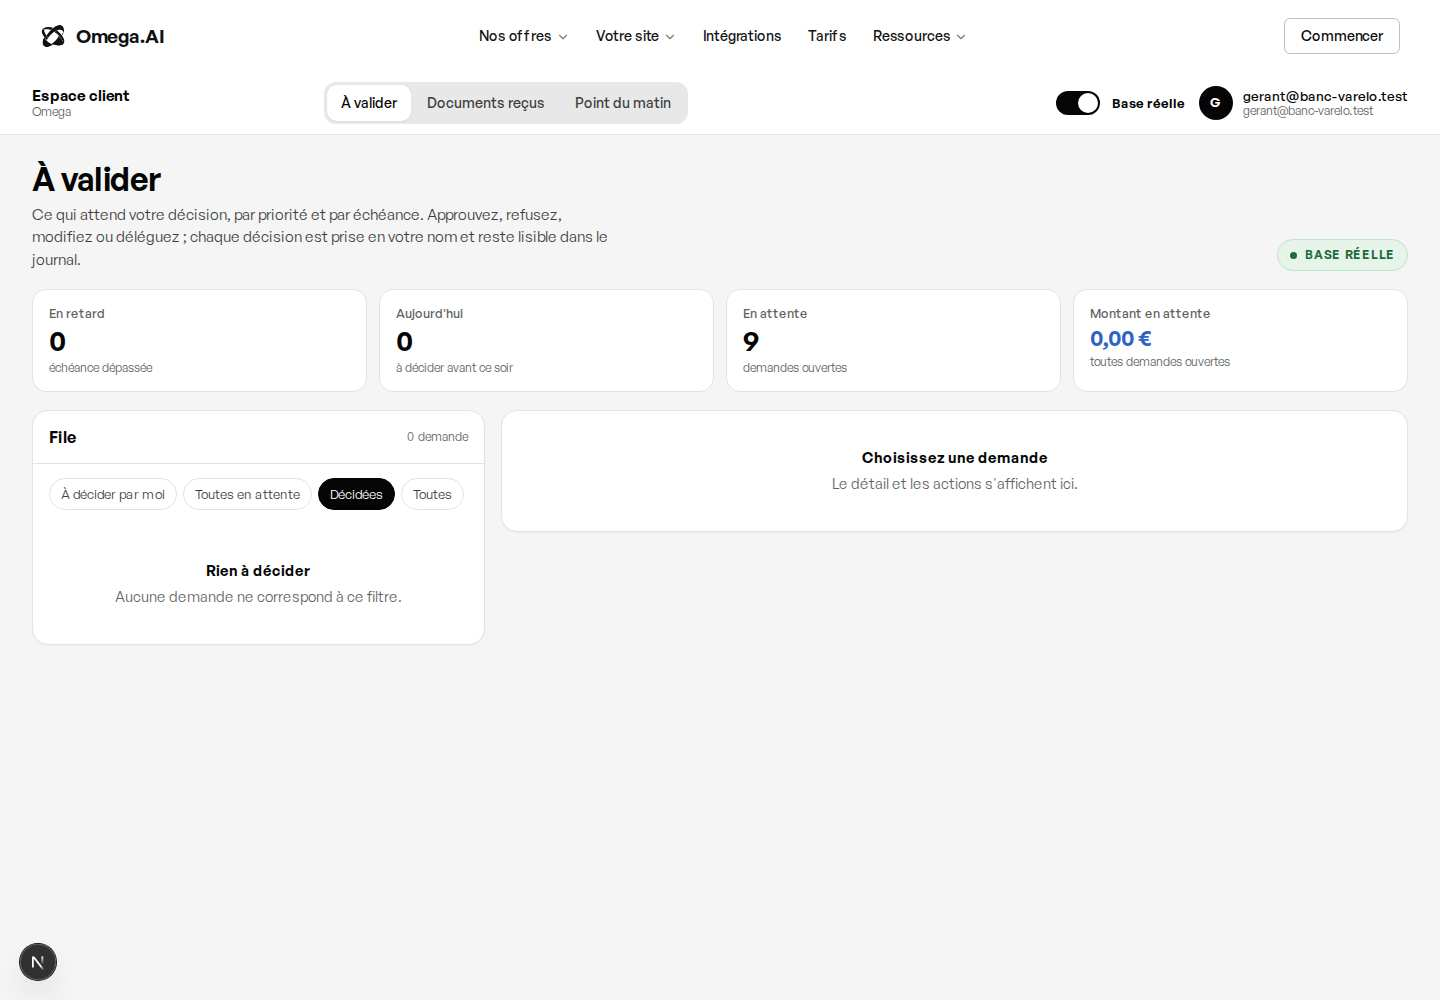
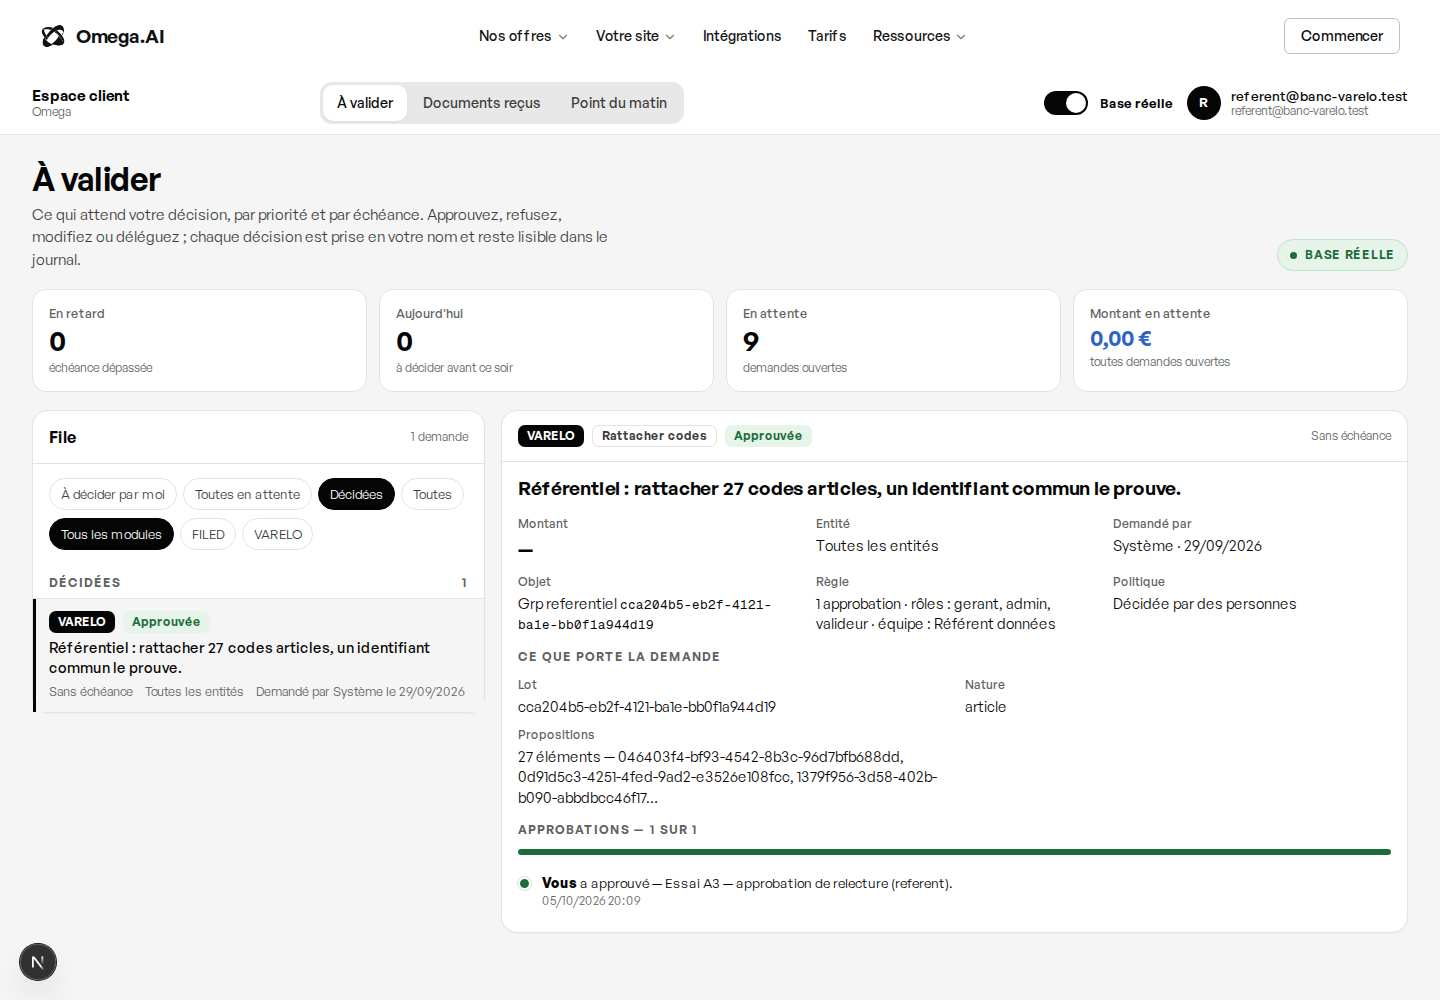
NOTES-A3 et captures : approuver / refuser rejoués avec referent, première vraie facture lue dans FILED, deux retours pour le lecteur (demandes 11 et 12)
Claude-Session: https://claude.ai/code/session_01DdgwRadkJFx5u9buwh5crS

diff --git a/omega/NOTES-A3.md b/omega/NOTES-A3.md
@@ -155,9 +155,24 @@ RLS, portes RPC). Sans session, l'interrupteur est gris et l'exemple reste.
    75 GRANT en face des policies. Délégation et révocation vérifiées.
    `comptes` DELETE, `entites` INSERT + DELETE, `regles_validation`
    INSERT + UPDATE + DELETE : voulus par le socle (policies `ALL`), pas
-   touchés. **Reste à demander** : un mot de passe pour `referent` (membre de
-   « Référent données ») ou `daf` pour rejouer approuver / refuser, et une
-   demande saisie par le gérant pour rejouer l'annulation.
+   touchés. Approuver / refuser rejoués avec `referent`. **Reste** : une
+   demande saisie par le gérant pour rejouer l'annulation (promise au
+   prochain point).
+11. **Vu sur la première vraie facture** (05/10, 20:05) — pour A1 / le
+   coordinateur, pas pour l'écran : le contrôle `identite.siren` dit
+   « Aucun SIREN sur la pièce ni sur le fournisseur » alors que
+   `pieces_valeurs` porte `fournisseur.siren = "SIREN 842 115 763"` (et
+   `fournisseur.tva`) — le contrôle ne lit pas la valeur lue, ou la valeur
+   n'est pas remontée sur `filed_factures.fournisseur_lu`. Et le contrôle
+   bloquant `fournisseur.a_confirmer` demande qu'« une personne confirme »
+   le fournisseur nouveau : **il n'y a pas de porte pour ça** —
+   `filed_bloquer_fournisseur(false)` débloque un bloqué, ce n'est pas
+   confirmer un `a_confirmer`. Proposition : `filed_confirmer_fournisseur
+   (p_fournisseur, p_motif)` (statut `actif`, `confirme_le`/`confirme_par`),
+   que j'ajoute à l'écran dès qu'elle existe.
+12. **Contrat des champs de lecture** : `omega/CHAMPS-LECTURE.md` n'est pas
+   sur `main` ; la visionneuse lit aujourd'hui les deux jeux de noms. Un
+   seul jeu, écrit, éviterait les repli.
 9. **Realtime** — posé en partie (socle_lot19h, 05/10 18:25) :
    `demandes_validation`, `approbations`, `filed_documents`, `filed_factures`
    sont dans la publication `supabase_realtime`. Les écrans écoutent déjà
@@ -218,10 +233,27 @@ sur la recette, cookie de session posé par
   et le dit AVANT le clic (règle « · équipe : Référent données », avis
   ambre, boutons gris ; « À décider par moi » vide à juste titre), une
   délégation d'un membre rouvrant la décision — même ordre que le trigger.
-  **Approuver / refuser restent à rejouer** avec un compte membre
-  (referent c2 pour « Référent données », daf/daf2 pour « Direction
-  financière ») : il leur faut un mot de passe. **Annuler sa demande**
-  demande une demande saisie par la personne : aucune sur le banc.
+  **Approuver et refuser rejoués à 20:09 UTC avec `referent`** (membre de
+  « Référent données », mot de passe posé par le coordinateur) : une
+  demande VARELO approuvée (passée `executee` par le trigger, l'action du
+  module a tourné), une refusée avec motif (`rejetee`) ; les deux lignes
+  d'`approbations` portent le commentaire. Le message « C'est fait » est
+  désormais dit au-dessus de la file, parce que la demande décidée quitte
+  la vue quand la file se relit. **Annuler sa demande** reste à rejouer :
+  le coordinateur fournit une demande saisie par le gérant au prochain
+  point.
+- **FILED, première vraie facture** (`R2026-000003`, F-2026-0413 de
+  Papeterie Delorme, lue par l'ouvrier lecteur à 20:05) : le dossier se
+  lit, le PDF réel se dessine avec ses onze boîtes, 18 contrôles (4
+  échoués dont « fournisseur à confirmer » bloquant), le fil. Trois
+  retouches à chaud : les **noms de champ du lecteur réel** (`numero`,
+  `date`, `echeance`, `montant_*`, `fournisseur.iban`, `fournisseur.siren`)
+  diffèrent du gabarit (`facture.numero`, `totaux.*`, `paiement.iban`) —
+  la visionneuse lit les deux par notion, et une valeur absente de la
+  facture retombe sur le texte cité (le SIREN lu sur la pièce s'affiche) ;
+  le **motif officiel n'est plus dit sur un contrôle passé** (c'est celui
+  qui vaudrait s'il échouait) ; les familles du lecteur réel (`identite`,
+  `date`, `exercice`, `montant`, `lecture`) ont leur libellé.
 - `apercu_point(p_client, p_user, p_jour)` répond 200 avec
   `{jour, du_le, fuseau, motifs: [], prevu_le, sections: []}` pour le banc
   (aucun gabarit de point posé) : l'écran dit « Pas de point ce jour-là »
